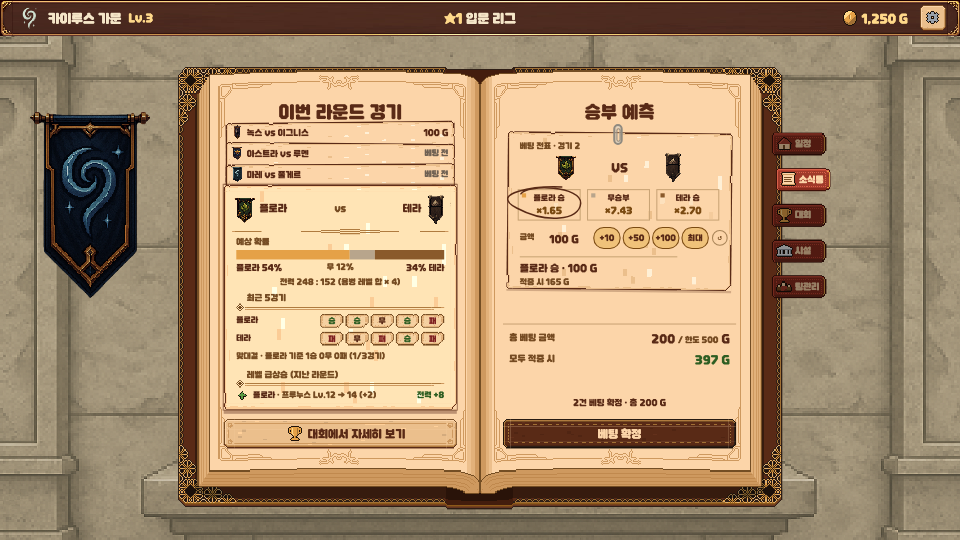
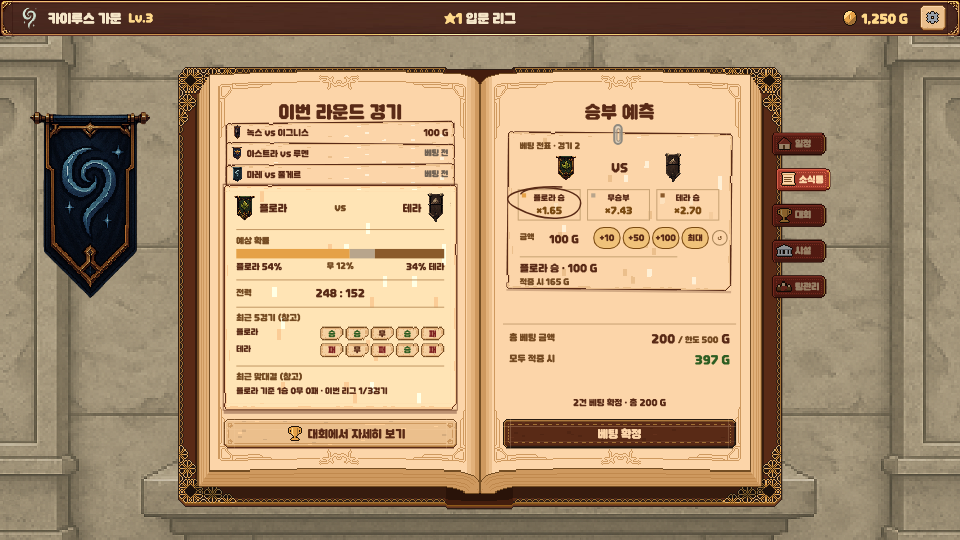
Docs: 소식통 시안 - 왼쪽 카드 5구역(대진·확률·전력·최근 5경기·맞대결) 구분선, 전력식 변경 기록

Changed region(s): [[0.25, 0.3556, 0.4688, 0.7407], [0.4375, 0.3556, 0.4688, 0.4444], [0.3125, 0.4148, 0.4062, 0.4444]]

diff --git a/Docs/handover-mail/mockups/mail.html b/Docs/handover-mail/mockups/mail.html
@@ -102,26 +102,29 @@ function draw(){
     if(full(i)) T(L1-8,y+10,draft[i].stake+' G',7.6,confirmed?'win':'ink','rm'); else T(L1-8,y+10,EN_?'Open':'베팅 전',7.14,'gray','rm');});
   CL=anim=='card'?'cardin':'';
   const cy=168;N('COLLO:02_panels/tooltip',L0,cy,222,214,6,'filter:brightness(1.07);outline:1px solid rgba(89,42,22,.55);box-shadow:0 4px 0 rgba(62,17,9,.35),0 -2px 0 rgba(89,42,22,.18)');
-  P(TEAM(a),L0+10,cy+10,20,28,'object-fit:contain');T(L0+34,cy+18,nm[a],9,'ink');
-  P(TEAM(b),L1-30,cy+10,20,28,'object-fit:contain');T(L1-34,cy+18,nm[b],9,'ink','ra');T(155,cy+23,'vs',8,'ink2','mm');
-  N('02_panels/divider_h_ornament',L0+8,cy+42,206,5,[0,28,0,28]);
-  // 예상 확률 (경기 결과 계산과 같은 식: 전력 = 용병 레벨 합 × 4)
-  T(L0+12,cy+50,EN_?'Win chance':'예상 확률',7.6,'ink2');
-  let bx=L0+12;pr.forEach((q,i)=>{const w=198*q;BOX(bx,cy+62,w,9,COL[i]);bx+=w;});
-  const tr=trip(pr);T(L0+12,cy+75,`${nm[a]} ${tr[0]}%`,7.6,'ink');T(155,cy+75,`${EN_?'Draw':'무'} ${tr[1]}%`,7.14,'ink2','ma');T(L1-12,cy+75,`${tr[2]}% ${nm[b]}`,7.6,'ink','ra');
-  const pA=Math.round(pw*pp/100/4)*4;T(155,cy+89,EN_?`Power ${pA} : ${pw-pA} (unit levels × 4)`:`전력 ${pA} : ${pw-pA} (용병 레벨 합 × 4)`,7.14,'ink2','ma');
-  // 최근 5경기 (경기 일정 결과)
-  N('02_panels/header_ornament',L0+12,cy+113,198,7,[0,12,0,10]);T(L0+22,cy+104,EN_?'Last 5':'최근 5경기',7.6,'ink2');
+  const DV=y=>BOX(L0+12,y,198,1,'#c49a68');
+  // 1. 가문 vs 가문
+  P(TEAM(a),L0+10,cy+8,20,28,'object-fit:contain');T(L0+34,cy+22,nm[a],9,'ink','lm');
+  P(TEAM(b),L1-30,cy+8,20,28,'object-fit:contain');T(L1-34,cy+22,nm[b],9,'ink','rm');T(155,cy+22,'vs',8,'ink2','mm');
+  DV(cy+42);
+  // 2. 예상 확률 (경기 결과 계산과 같은 식)
+  T(L0+12,cy+49,EN_?'Win chance':'예상 확률',7.6,'ink2');
+  let bx=L0+12;pr.forEach((q,i)=>{const w=198*q;BOX(bx,cy+61,w,9,COL[i]);bx+=w;});
+  const tr=trip(pr);T(L0+12,cy+74,`${nm[a]} ${tr[0]}%`,7.6,'ink');T(155,cy+74,`${EN_?'Draw':'무'} ${tr[1]}%`,7.14,'ink2','ma');T(L1-12,cy+74,`${tr[2]}% ${nm[b]}`,7.6,'ink','ra');
+  DV(cy+90);
+  // 3. 전력 비교 (레벨×4 + 등급×6 + 장착 스킬×3)
+  const pA=Math.round(pw*pp/100), pB=pw-pA;
+  T(L0+12,cy+103,EN_?'Power':'전력',7.6,'ink2','lm');T(155,cy+103,`${pA}  :  ${pB}`,9,'ink','mm');
+  DV(cy+116);
+  // 4. 최근 5경기 (참고)
+  T(L0+12,cy+123,EN_?'Last 5 (reference)':'최근 5경기 (참고)',7.6,'ink2');
   const RC={"승":"win","무":"ink","패":"lose"},EK={"승":"W","무":"D","패":"L"};
-  [[a,m[5],cy+123],[b,m[6],cy+140]].forEach(([tm,f,y])=>{T(L0+12,y+6,nm[tm],7.14,'ink','lm');[...f].forEach((r,k)=>{const x=L0+92+k*24;N('02_panels/tag_result',x,y,22,13,4);T(x+11,y+6.5,EN_?EK[r]:r,7.14,RC[r],'mm');});});
-  // 맞대결 (이번 리그, 최대 3번)
+  [[a,m[5],cy+135],[b,m[6],cy+151]].forEach(([tm,f,y])=>{T(L0+12,y+6,nm[tm],7.14,'ink','lm');[...f].forEach((r,k)=>{const x=L0+92+k*24;N('02_panels/tag_result',x,y,22,13,4);T(x+11,y+6.5,EN_?EK[r]:r,7.14,RC[r],'mm');});});
+  DV(cy+172);
+  // 5. 최근 맞대결 (이번 리그, 최대 3번, 참고)
   const hh=m[7],hn=hh[0]+hh[1]+hh[2];
-  T(L0+12,cy+163,(EN_?'H2H':'맞대결')+' · '+(hn?(EN_?`${nm[a]} ${hh[0]}W ${hh[1]}D ${hh[2]}L (${hn}/3)`:`${nm[a]} 기준 ${hh[0]}승 ${hh[1]}무 ${hh[2]}패 (${hn}/3경기)`):(EN_?'first meeting this league':'이번 리그 첫 맞대결')),7.14,'ink2','lm');
-  // 레벨 급상승 (기록된 것만: 한 라운드 +2 이상)
-  N('02_panels/header_ornament',L0+12,cy+186,198,7,[0,12,0,10]);T(L0+22,cy+177,EN_?'Level jumps (last round)':'레벨 급상승 (지난 라운드)',7.6,'ink2');
-  if(!news.length) T(155,cy+201,EN_?'None last round.':'지난 라운드 없음',7.14,'gray','ma');
-  news.slice(0,1).forEach(n=>{const y=cy+195,tm=n[1]?b:a;PC('07_icons_color/ui_stat_up',L0+12,y,12,12);
-    T(L0+28,y+6,`<span style="position:static;color:#592a16">${nm[tm]}</span> · ${EN_?n[3]:n[2]}`,7.14,'ink2','lm');T(L1-12,y+6,(EN_?'Power ':'전력 ')+'+'+n[4],7.14,'win','rm');});
+  T(L0+12,cy+179,EN_?'Head-to-head (reference)':'최근 맞대결 (참고)',7.6,'ink2');
+  T(L0+12,cy+197,hn?(EN_?`${nm[a]} ${hh[0]}W ${hh[1]}D ${hh[2]}L · ${hn}/3 this league`:`${nm[a]} 기준 ${hh[0]}승 ${hh[1]}무 ${hh[2]}패 · 이번 리그 ${hn}/3경기`):(EN_?'First meeting this league':'이번 리그 첫 맞대결'),7.14,'ink','lm');
   CL='';
   N('01_buttons/btn_normal_default',L0,391,222,28,10);P('07_icons_color/menu_league',L0+60,397,16,16);T(L0+80,405,EN_?'More in League':'대회에서 자세히 보기',10,'ink','lm');
   // ===== 오른쪽: 클립으로 꽂은 베팅 전표 (높이 축소) + 라운드 확정

diff --git a/Docs/handover-mail/README.md b/Docs/handover-mail/README.md
@@ -22,8 +22,8 @@ git pull
 
 ## 3. 승인된 소식통 설계 (요약)
 - **왼쪽 = 경기 카드 묶음**: 이번 라운드 4경기(우리 경기 제외)를 카드로. 앞 카드 = 고른 경기, 뒤 3장은 머리(대진 + 상태)만 보임. 머리를 누르면 카드가 앞으로 나옴(책 넘김 아님).
-  - 앞 카드 내용(모두 실제 데이터): 대진 / **예상 확률 3칸**(경기 결과 계산과 같은 식, 전력 = 적 가문 용병 레벨 합 × 4, `EnemyTeamService.GetTeamPower`) / **최근 5경기**(두 가문, `league.schedule`의 `match.result`) / **맞대결**(이번 리그, 최대 3번) / **레벨 급상승 (지난 라운드)**(`unitEvents` LevelJump, 한 라운드 +2 이상만 기록됨, 전력 +레벨×4).
-  - 영입 사건은 리그 시작(0라운드)에만 기록되므로 라운드 중 표시 안 함. 최근 5경기·맞대결은 결과 계산에는 안 쓰이는 참고 정보.
+  - 앞 카드 내용 5구역(구분선으로 나눔, 용병 정보 없음 — 용병은 대회 페이지): ① 가문 vs 가문 ② 예상 확률 3칸(경기 결과 계산과 같은 식) ③ 전력 비교 "312 : 198" ④ 최근 5경기 칩(참고, `league.schedule` 결과, 경기 수 부족하면 빈 칩/1라운드 "기록 없음") ⑤ 최근 맞대결(참고, 이번 리그 n/3경기). 판정 문구·전력 변화량은 넣지 않음.
+  - **전력 계산 변경(엄지원 님 코드, PR 리뷰 요청)**: `EnemyTeamService.GetTeamPower` = 용병마다 레벨×4 + 등급×6 + 장착 스킬 수×3 의 합. 전력은 라운드 후 적 가문 성장으로 자동 갱신되므로 별도 저장 불필요.
   - 결과 계산에 안 쓰이는 정보(최근 5경기·맞대결·순위·새 스킬)는 넣지 않음.
   - 아래: "대회에서 자세히 보기" 버튼 → BookPageId.League.
 - **오른쪽 = 클립으로 꽂은 베팅 전표**(높이 축소): 결과 3칸(배당 "×1.65"), 누르면 잉크 동그라미 / 금액은 **더하기 버튼 +10·+50·+100·최대 + 초기화(↺)** / "적중 시 n G".
